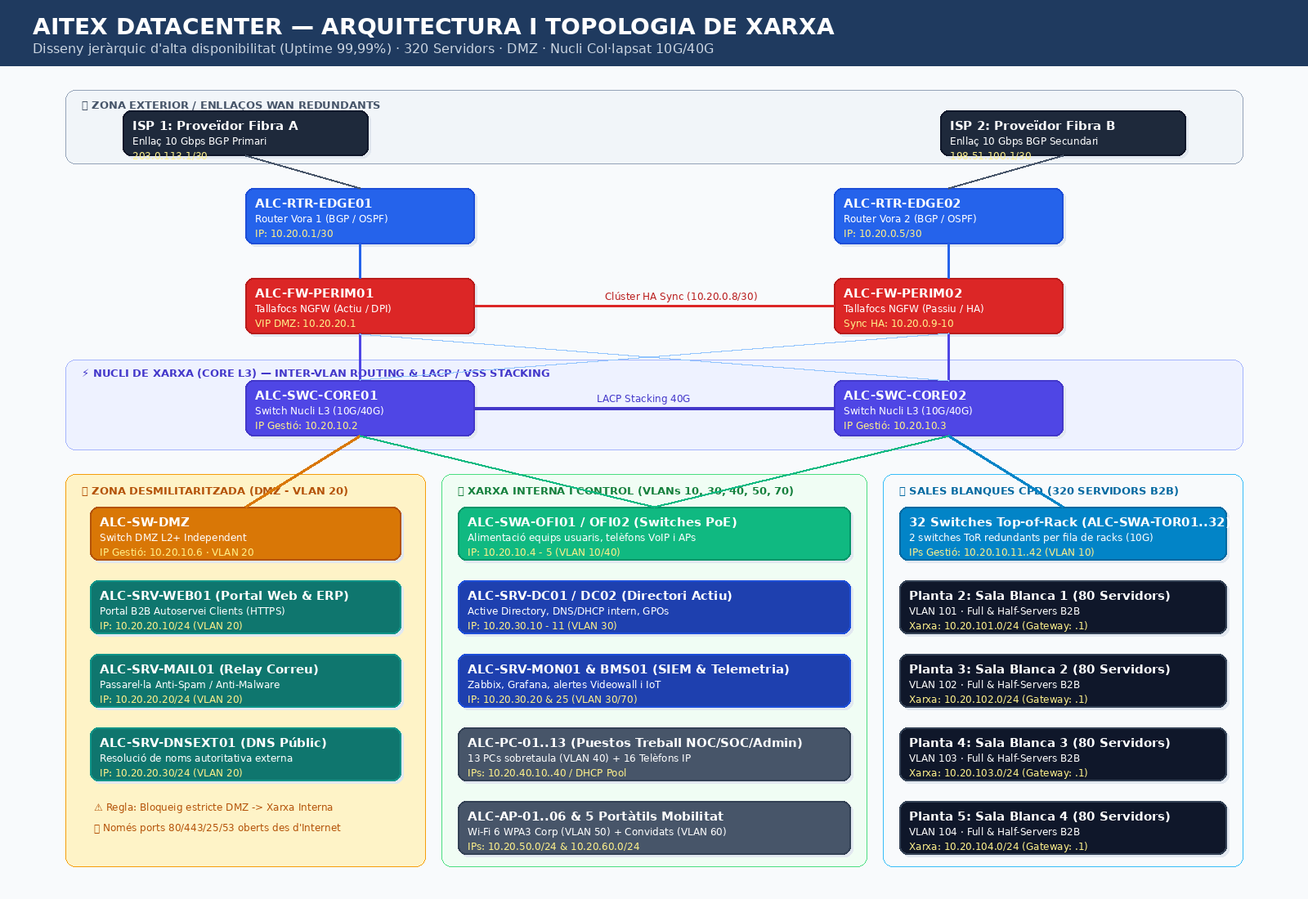
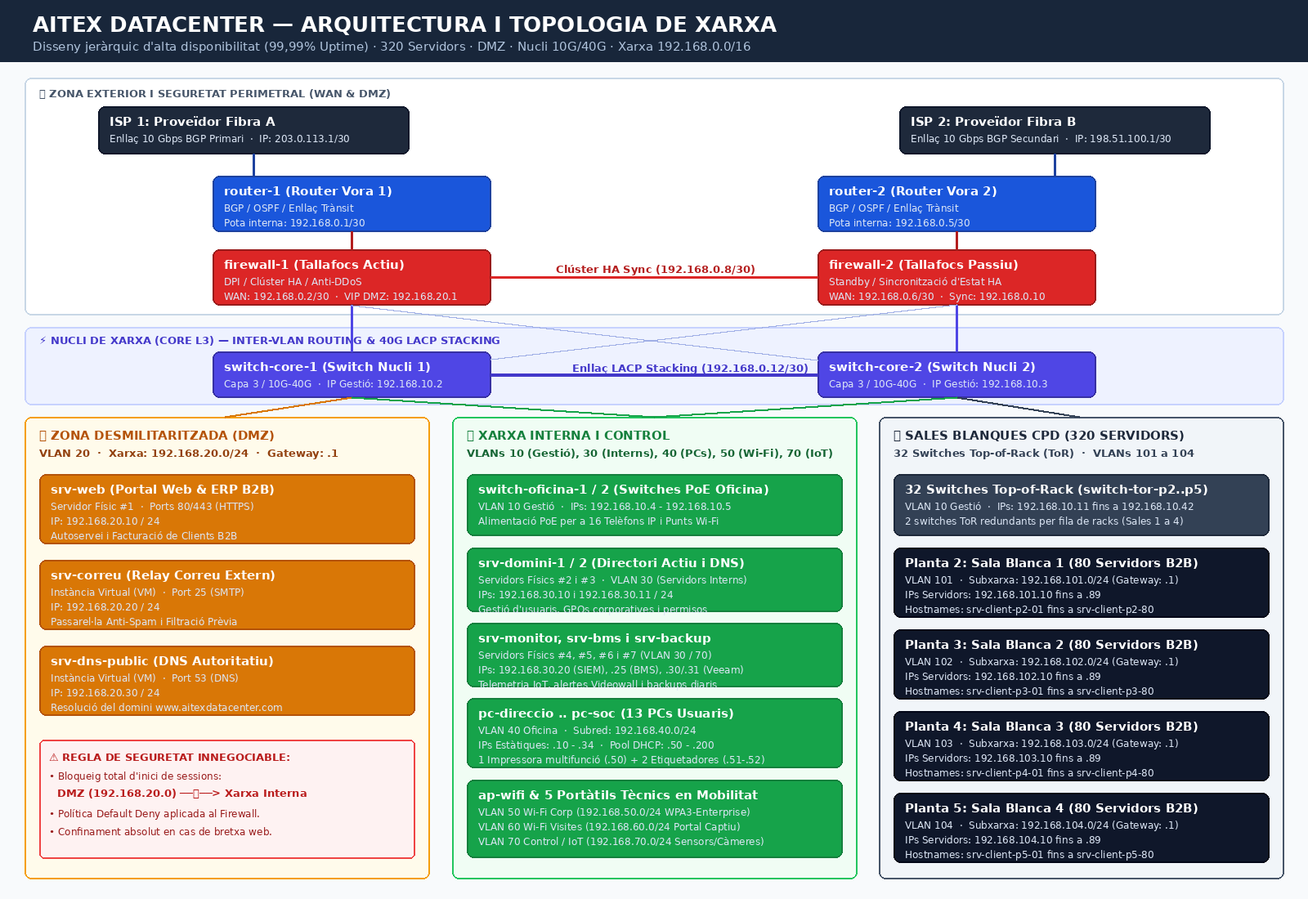
Apply 192.168.0.0/16 IP addressing scheme and natural human-friendly hostnames across docs and diagrams

diff --git a/docs/sprint-1/bloc-2/04-adrecament-ip.md b/docs/sprint-1/bloc-2/04-adrecament-ip.md
@@ -6,130 +6,126 @@
   <img alt="CE" src="https://img.shields.io/badge/Criteris_Avaluaci%C3%B3-RA2.e_·_RA2.i-2E7D6B?style=for-the-badge">
 </p>
 
-Aquest document defineix el pla exhaustiu d'adreçament IP privat, la segmentació lògica en xarxes virtuals (**VLANs**), el criteri de nomenclatura normalitzat (*hostname/FQDN*) dels equips i la justificació de seguretat entre la xarxa interna i la **DMZ** per a **Aitex Datacenter**.
+Aquest document defineix el pla exhaustiu d'adreçament IP privat sota la xarxa base **`192.168.0.0/16`**, la segmentació en xarxes virtuals (**VLANs**), la nomenclatura simplificada i directa dels equips (*Hostnames*) i la justificació de seguretat entre la xarxa interna i la **DMZ** per a **Aitex Datacenter**.
 
 ---
 
-## 📐 1. Esquema General de Subxarxes i VLANs
+## 📐 1. Esquema General de Subxarxes i VLANs (`192.168.0.0/16`)
 
-S'ha adoptat l'espai d'adreçament privat **RFC 1918** de classe A reservat **`10.20.0.0/16`**, el qual ofereix un espai de fins a 65.534 adreces dividit jeràrquicament en blocs `/24` (254 hosts per subxarxa) per a les diferents zones funcionals, més blocs `/30` per als enllaços d'interconnexió punt a punt.
+S'ha adoptat l'espai d'adreçament privat **RFC 1918** **`192.168.0.0/16`**, dividit jeràrquicament en blocs `/24` (fins a 254 equips per subxarxa) on **el tercer octet de la IP coincideix de manera directa amb l'identificador de la VLAN (`192.168.[VLAN].0/24`)**, facilitant al màxim la gestió i el diagnòstic:
 
-| VLAN ID | Nom de la Subxarxa | Xarxa (CIDR) | Màscara de Subxarxa | Passarel·la (Gateway) | Rang d'adreces útils | Tipus d'assignació | Funció / Zona |
+| VLAN ID | Nom de la Subxarxa | Xarxa (CIDR) | Màscara de Subxarxa | Passarel·la (Gateway) | Rang d'adreces útils | Tipus d'assignació | Funció / Àrea |
 |:---:|---|---|---|---|---|:---:|---|
-| **—** | *Trànsit R1 - FW1* | `10.20.0.0/30` | `255.255.255.252` | `10.20.0.1` | `10.20.0.1 - 10.20.0.2` | Estàtica | Enllaç punt a punt Router 1 i Firewall 1 |
-| **—** | *Trànsit R2 - FW2* | `10.20.0.4/30` | `255.255.255.252` | `10.20.0.5` | `10.20.0.5 - 10.20.0.6` | Estàtica | Enllaç punt a punt Router 2 i Firewall 2 |
-| **—** | *Sincronització FW HA* | `10.20.0.8/30` | `255.255.255.252` | `—` | `10.20.0.9 - 10.20.0.10` | Estàtica | Heartbeat i estat del clúster de tallafocs |
-| **—** | *Enllaç Inter-Core (LACP)*| `10.20.0.12/30` | `255.255.255.252` | `—` | `10.20.0.13 - 10.20.0.14` | Estàtica | Trànsit entre Switches Core 1 i 2 |
-| **10** | **VLAN_GESTIO_OOBM** | `10.20.10.0/24` | `255.255.255.0` | `10.20.10.1` | `10.20.10.1 - 10.20.10.254` | Estàtica | Xarxa fora de banda: IPMI, iLO, KVM sobre IP i gestió de switches |
-| **20** | **VLAN_DMZ_PUBLICA** | `10.20.20.0/24` | `255.255.255.0` | `10.20.20.1` | `10.20.20.1 - 10.20.20.254` | Estàtica | Serveis amb accés públic des d'Internet (Web/ERP, DNS, Mail) |
-| **30** | **VLAN_SRV_INTERNS** | `10.20.30.0/24` | `255.255.255.0` | `10.20.30.1` | `10.20.30.1 - 10.20.30.254` | Estàtica | Controladors de Domini (AD), Backups corporatius, SIEM/Syslog |
-| **40** | **VLAN_OFICINA_USUARIS**| `10.20.40.0/24` | `255.255.255.0` | `10.20.40.1` | `10.20.40.1 - 10.20.40.254` | DHCP (`.50 - .200`) | PCs sobretaula d'Administració, Direcció, Suport i SOC |
-| **50** | **VLAN_WIFI_CORP** | `10.20.50.0/24` | `255.255.255.0` | `10.20.50.1` | `10.20.50.1 - 10.20.50.254` | DHCP (`.20 - .250`) | Portàtils tècnics corporatius (WPA3-Enterprise / 802.1X) |
-| **60** | **VLAN_WIFI_VISITES** | `10.20.60.0/24` | `255.255.255.0` | `10.20.60.1` | `10.20.60.1 - 10.20.60.254` | DHCP (`.10 - .250`) | Accés a Internet exclusiu per a visites amb portal captiu |
-| **70** | **VLAN_IOT_BMS_CONTROL**| `10.20.70.0/24` | `255.255.255.0` | `10.20.70.1` | `10.20.70.1 - 10.20.70.254` | Estàtica / DHCP | Sensors de temperatura, humitat, SAIs, Videowall NOC i càmeres CCTV |
-| **101** | **VLAN_PROD_PLANTA2** | `10.20.101.0/24` | `255.255.255.0` | `10.20.101.1` | `10.20.101.1 - 10.20.101.254` | Estàtica | Sala Blanca 1: 80 servidors de producció clients B2B |
-| **102** | **VLAN_PROD_PLANTA3** | `10.20.102.0/24` | `255.255.255.0` | `10.20.102.1` | `10.20.102.1 - 10.20.102.254` | Estàtica | Sala Blanca 2: 80 servidors de producció clients B2B |
-| **103** | **VLAN_PROD_PLANTA4** | `10.20.103.0/24` | `255.255.255.0` | `10.20.103.1` | `10.20.103.1 - 10.20.103.254` | Estàtica | Sala Blanca 3: 80 servidors de producció clients B2B |
-| **104** | **VLAN_PROD_PLANTA5** | `10.20.104.0/24` | `255.255.255.0` | `10.20.104.1` | `10.20.104.1 - 10.20.104.254` | Estàtica | Sala Blanca 4: 80 servidors de producció clients B2B |
+| **—** | *Trànsit R1 - FW1* | `192.168.0.0/30` | `255.255.255.252` | `192.168.0.1` | `192.168.0.1 - 192.168.0.2` | Estàtica | Enllaç punt a punt Router 1 i Firewall 1 |
+| **—** | *Trànsit R2 - FW2* | `192.168.0.4/30` | `255.255.255.252` | `192.168.0.5` | `192.168.0.5 - 192.168.0.6` | Estàtica | Enllaç punt a punt Router 2 i Firewall 2 |
+| **—** | *Sincronització FW HA*| `192.168.0.8/30` | `255.255.255.252` | `—` | `192.168.0.9 - 192.168.0.10` | Estàtica | Heartbeat i estat del clúster de tallafocs |
+| **—** | *Enllaç Inter-Core (LACP)*| `192.168.0.12/30`| `255.255.255.252` | `—` | `192.168.0.13 - 192.168.0.14`| Estàtica | Trànsit troncal entre Switches Core 1 i 2 |
+| **10** | **VLAN_GESTIO** | `192.168.10.0/24` | `255.255.255.0` | `192.168.10.1` | `192.168.10.1 - 192.168.10.254` | Estàtica | Gestió tècnica OOBM: IPMI, iLO, KVM i switches |
+| **20** | **VLAN_DMZ** | `192.168.20.0/24` | `255.255.255.0` | `192.168.20.1` | `192.168.20.1 - 192.168.20.254` | Estàtica | Serveis amb accés públic des d'Internet (Web/ERP, DNS, Mail) |
+| **30** | **VLAN_SERVIDORS_INTERNS**| `192.168.30.0/24` | `255.255.255.0` | `192.168.30.1` | `192.168.30.1 - 192.168.30.254` | Estàtica | Controladors de Domini (AD), Backups corporatius, SIEM/Syslog |
+| **40** | **VLAN_OFICINA** | `192.168.40.0/24` | `255.255.255.0` | `192.168.40.1` | `192.168.40.1 - 192.168.40.254` | DHCP (`.50 - .200`) | PCs sobretaula d'Administració, Direcció, Suport i SOC |
+| **50** | **VLAN_WIFI_CORP** | `192.168.50.0/24` | `255.255.255.0` | `192.168.50.1` | `192.168.50.1 - 192.168.50.254` | DHCP (`.20 - .250`) | Portàtils tècnics corporatius (WPA3-Enterprise) |
+| **60** | **VLAN_WIFI_VISITES** | `192.168.60.0/24` | `255.255.255.0` | `192.168.60.1` | `192.168.60.1 - 192.168.60.254` | DHCP (`.10 - .250`) | Accés a Internet exclusiu per a visites amb portal captiu |
+| **70** | **VLAN_CONTROL_IOT** | `192.168.70.0/24` | `255.255.255.0` | `192.168.70.1` | `192.168.70.1 - 192.168.70.254` | Estàtica / DHCP | Sensors de temperatura, humitat, SAIs, Videowall NOC i càmeres |
+| **101** | **VLAN_PROD_PLANTA2** | `192.168.101.0/24`| `255.255.255.0` | `192.168.101.1`| `192.168.101.1 - 192.168.101.254`| Estàtica | Sala Blanca 1: 80 servidors de producció clients B2B |
+| **102** | **VLAN_PROD_PLANTA3** | `192.168.102.0/24`| `255.255.255.0` | `192.168.102.1`| `192.168.102.1 - 192.168.102.254`| Estàtica | Sala Blanca 2: 80 servidors de producció clients B2B |
+| **103** | **VLAN_PROD_PLANTA4** | `192.168.103.0/24`| `255.255.255.0` | `192.168.103.1`| `192.168.103.1 - 192.168.103.254`| Estàtica | Sala Blanca 3: 80 servidors de producció clients B2B |
+| **104** | **VLAN_PROD_PLANTA5** | `192.168.104.0/24`| `255.255.255.0` | `192.168.104.1`| `192.168.104.1 - 192.168.104.254`| Estàtica | Sala Blanca 4: 80 servidors de producció clients B2B |
 
 ---
 
-## 🏷 2. Estàndard de Nomenclatura d'Equips (*Hostname / FQDN*)
+## 🏷 2. Estàndard de Nomenclatura Directa i Simplificada
 
-Tots els equips de la xarxa segueixen un patró de nomenclatura jeràrquic i unívoc:
+S'aplica un criteri de nomenclatura natural, intuïtiu i clar per al projecte:
 
-$$\text{Codi Seu} - \text{Tipus Equip} - \text{Funció / Zona} - \text{Número Seqüencial}$$
+$$\text{[tipus-dispositiu]} - \text{[funció o lloc]} - \text{[número]}$$
 
-* **Codi de Seu:** `ALC` (Seu Central d'Alcoi).
-* **Tipus de Dispositiu:**
-  * `RTR`: Encaminador (Router).
-  * `FW`: Tallafocs de Nova Generació (Firewall).
-  * `SWC`: Switch de Nucli (Core Layer 3).
-  * `SWA`: Switch d'Accés / Top-of-Rack (ToR Layer 2+).
-  * `AP`: Punt d'Accés Wi-Fi (Access Point).
-  * `SRV`: Servidor físic o virtualitzat.
-  * `PC`: Estació de treball fixa de sobretaula.
-  * `LT`: Ordinador portàtil corporatiu (*Laptop*).
-  * `PRN`: Impressora en xarxa.
-  * `IOT`: Dispositiu IoT, SAI o control ambiental.
-* **Domini intern:** `intra.aitexdatacenter.com`
+* **Noms directes i autoexplicatius:**
+  * Routers: `router-1`, `router-2`
+  * Firewalls: `firewall-1`, `firewall-2` (Passarel·la Virtual DMZ: `firewall-vip-dmz`)
+  * Switches de Nucli: `switch-core-1`, `switch-core-2`
+  * Switches d'Oficina: `switch-oficina-1`, `switch-oficina-2`
+  * Switches ToR: `switch-tor-p2-01` .. `08`, `switch-tor-p3-01` .. `08`, etc.
+  * Servidors: `srv-web`, `srv-correu`, `srv-domini-1`, `srv-backup-1`, etc.
+  * PCs: `pc-direccio`, `pc-admin`, `pc-sistemes-1` .. `6`, `pc-soc-1` .. `4`
+  * Portàtils: `portatil-sistemes-1` .. `2`, `portatil-manteniment-1` .. `3`
+  * Servidors de Clients: `srv-client-p2-01` .. `80` (repartits per planta)
+* **Domini intern corporatiu:** `intra.aitexdatacenter.com`
 
 ---
 
 ## 💻 3. Taula d'Adreçament d'Equips i Dispositius de Xarxa
 
-A continuació es detalla l'assignació IP prevista per als principals components físics i lògics de la infraestructura:
-
 ### A. Electrònica de Xarxa, Seguretat i Enllaços de Trànsit
 
 | Nom de l'Equip (*Hostname*) | Xarxa / VLAN | Adreça IP | Màscara / Prefix | Passarel·la (*Gateway*) | Descripció i Funció |
 |---|---|:---:|:---:|:---:|---|
-| `ALC-RTR-EDGE01` | Trànsit ISP 1 | `203.0.113.2` | `255.255.255.252` (`/30`) | `203.0.113.1` | Router de Vora 1 (BGP Primari, Fibra ISP 1) |
-| `ALC-RTR-EDGE01` (LAN) | Trànsit R1-FW1 | `10.20.0.1` | `255.255.255.252` (`/30`) | `—` | Pota interna cap al Firewall 1 |
-| `ALC-RTR-EDGE02` | Trànsit ISP 2 | `198.51.100.2` | `255.255.255.252` (`/30`) | `198.51.100.1` | Router de Vora 2 (BGP Secundari, Fibra ISP 2) |
-| `ALC-RTR-EDGE02` (LAN) | Trànsit R2-FW2 | `10.20.0.5` | `255.255.255.252` (`/30`) | `—` | Pota interna cap al Firewall 2 |
-| `ALC-FW-PERIM01` (WAN) | Trànsit R1-FW1 | `10.20.0.2` | `255.255.255.252` (`/30`) | `10.20.0.1` | Firewall Primari Actiu (Interfície WAN) |
-| `ALC-FW-PERIM02` (WAN) | Trànsit R2-FW2 | `10.20.0.6` | `255.255.255.252` (`/30`) | `10.20.0.5` | Firewall Secundari Passiu (Interfície WAN) |
-| `ALC-FW-PERIM01` (HA Sync)| Sincronització | `10.20.0.9` | `255.255.255.252` (`/30`) | `—` | Port de sincronització d'estat Clúster HA |
-| `ALC-FW-PERIM02` (HA Sync)| Sincronització | `10.20.0.10` | `255.255.255.252` (`/30`) | `—` | Port de sincronització d'estat Clúster HA |
-| `ALC-FW-VIP-DMZ` | VLAN 20 (DMZ) | `10.20.20.1` | `255.255.255.0` (`/24`) | `—` | IP Virtual Clúster Firewall per a la DMZ (Gateway) |
-| `ALC-SWC-CORE01` | VLAN 10 (Gestió) | `10.20.10.2` | `255.255.255.0` (`/24`) | `10.20.10.1` | Switch Core 1 L3 (Gestió i Inter-VLAN Routing) |
-| `ALC-SWC-CORE02` | VLAN 10 (Gestió) | `10.20.10.3` | `255.255.255.0` (`/24`) | `10.20.10.1` | Switch Core 2 L3 (Stacking/VSS amb Core 1) |
-| `ALC-SWA-OFI01` | VLAN 10 (Gestió) | `10.20.10.4` | `255.255.255.0` (`/24`) | `10.20.10.1` | Switch PoE Planta 1 (Oficina i Punts d'Accés) |
-| `ALC-SWA-OFI02` | VLAN 10 (Gestió) | `10.20.10.5` | `255.255.255.0` (`/24`) | `10.20.10.1` | Switch PoE Planta 1 Redundant (Telèfons IP) |
-| `ALC-SWA-TOR01` a `08` | VLAN 10 (Gestió) | `10.20.10.11` - `.18` | `255.255.255.0` (`/24`) | `10.20.10.1` | 8 Switches ToR Planta 2 (Sala Blanca 1) |
-| `ALC-SWA-TOR09` a `16` | VLAN 10 (Gestió) | `10.20.10.19` - `.26` | `255.255.255.0` (`/24`) | `10.20.10.1` | 8 Switches ToR Planta 3 (Sala Blanca 2) |
-| `ALC-SWA-TOR17` a `24` | VLAN 10 (Gestió) | `10.20.10.27` - `.34` | `255.255.255.0` (`/24`) | `10.20.10.1` | 8 Switches ToR Planta 4 (Sala Blanca 3) |
-| `ALC-SWA-TOR25` a `32` | VLAN 10 (Gestió) | `10.20.10.35` - `.42` | `255.255.255.0` (`/24`) | `10.20.10.1` | 8 Switches ToR Planta 5 (Sala Blanca 4) |
-| `ALC-AP-OFI01` - `02` | VLAN 10 (Gestió) | `10.20.10.51` - `.52` | `255.255.255.0` (`/24`) | `10.20.10.1` | Punts d'Accés Wi-Fi Planta 1 (Oficines) |
-| `ALC-AP-SB01` a `04` | VLAN 10 (Gestió) | `10.20.10.53` - `.56` | `255.255.255.0` (`/24`) | `10.20.10.1` | Punts d'Accés Wi-Fi Sales Blanques (Plantes 2 a 5) |
+| `router-1` (WAN) | Trànsit ISP 1 | `203.0.113.2` | `255.255.255.252` (`/30`) | `203.0.113.1` | Router de Vora 1 (BGP Primari, Fibra ISP 1) |
+| `router-1` (LAN) | Trànsit R1-FW1 | `192.168.0.1` | `255.255.255.252` (`/30`) | `—` | Pota interna cap al Firewall 1 |
+| `router-2` (WAN) | Trànsit ISP 2 | `198.51.100.2` | `255.255.255.252` (`/30`) | `198.51.100.1` | Router de Vora 2 (BGP Secundari, Fibra ISP 2) |
+| `router-2` (LAN) | Trànsit R2-FW2 | `192.168.0.5` | `255.255.255.252` (`/30`) | `—` | Pota interna cap al Firewall 2 |
+| `firewall-1` (WAN) | Trànsit R1-FW1 | `192.168.0.2` | `255.255.255.252` (`/30`) | `192.168.0.1` | Firewall Primari Actiu (Interfície WAN) |
+| `firewall-2` (WAN) | Trànsit R2-FW2 | `192.168.0.6` | `255.255.255.252` (`/30`) | `192.168.0.5` | Firewall Secundari Passiu (Interfície WAN) |
+| `firewall-1` (HA Sync)| Sincronització | `192.168.0.9` | `255.255.255.252` (`/30`) | `—` | Port de sincronització Clúster HA |
+| `firewall-2` (HA Sync)| Sincronització | `192.168.0.10` | `255.255.255.252` (`/30`) | `—` | Port de sincronització Clúster HA |
+| `firewall-vip-dmz` | VLAN 20 (DMZ) | `192.168.20.1` | `255.255.255.0` (`/24`) | `—` | IP Virtual Clúster Firewall per a la DMZ (Gateway) |
+| `switch-core-1` | VLAN 10 (Gestió) | `192.168.10.2` | `255.255.255.0` (`/24`) | `192.168.10.1` | Switch Core 1 L3 (Gestió i Inter-VLAN Routing) |
+| `switch-core-2` | VLAN 10 (Gestió) | `192.168.10.3` | `255.255.255.0` (`/24`) | `192.168.10.1` | Switch Core 2 L3 (Stacking/VSS amb Core 1) |
+| `switch-oficina-1` | VLAN 10 (Gestió) | `192.168.10.4` | `255.255.255.0` (`/24`) | `192.168.10.1` | Switch PoE Planta 1 (Oficina i Punts d'Accés) |
+| `switch-oficina-2` | VLAN 10 (Gestió) | `192.168.10.5` | `255.255.255.0` (`/24`) | `192.168.10.1` | Switch PoE Planta 1 Redundant (Telèfons IP) |
+| `switch-tor-p2-01` a `08` | VLAN 10 (Gestió) | `192.168.10.11` - `.18` | `255.255.255.0` (`/24`) | `192.168.10.1` | 8 Switches ToR Planta 2 (Sala Blanca 1) |
+| `switch-tor-p3-01` a `08` | VLAN 10 (Gestió) | `192.168.10.19` - `.26` | `255.255.255.0` (`/24`) | `192.168.10.1` | 8 Switches ToR Planta 3 (Sala Blanca 2) |
+| `switch-tor-p4-01` a `08` | VLAN 10 (Gestió) | `192.168.10.27` - `.34` | `255.255.255.0` (`/24`) | `192.168.10.1` | 8 Switches ToR Planta 4 (Sala Blanca 3) |
+| `switch-tor-p5-01` a `08` | VLAN 10 (Gestió) | `192.168.10.35` - `.42` | `255.255.255.0` (`/24`) | `192.168.10.1` | 8 Switches ToR Planta 5 (Sala Blanca 4) |
+| `ap-oficina-1` - `2` | VLAN 10 (Gestió) | `192.168.10.51` - `.52` | `255.255.255.0` (`/24`) | `192.168.10.1` | Punts d'Accés Wi-Fi Planta 1 (Oficines) |
+| `ap-planta-2` a `5` | VLAN 10 (Gestió) | `192.168.10.53` - `.56` | `255.255.255.0` (`/24`) | `192.168.10.1` | Punts d'Accés Wi-Fi Sales Blanques (Plantes 2 a 5) |
 
 ---
 
-### B. Serveis en DMZ i Servidors Interns (7 Servidors Físics 2U + VM)
+### B. Serveis en DMZ i Servidors Interns (7 Servidors Físics 2U + Instàncies Virtuals)
 
 > [!NOTE]
-> Els **7 servidors físics de gestió interna** (Rack 2U) allotgen els 7 rols principals de control, monitoratge, còpies, fitxers i portal web/ERP, mentre que els serveis lleugers de passarel·la a la DMZ (`ALC-SRV-MAIL01` i `ALC-SRV-DNSEXT01`) s'executen com a instàncies virtualitzades aïllades (LXC/KVM) dins del mateix clúster intern amb interfície exclusiva a la `VLAN 20`.
+> Els **7 servidors físics de gestió interna** (Rack 2U) allotgen els serveis fonamentals d'administració, mentre que els serveis de passarel·la pública a la DMZ (`srv-correu` i `srv-dns-public`) s'executen com a instàncies virtualitzades aïllades amb interfície exclusiva a la `VLAN 20`.
 
 | Nom de l'Equip (*Hostname*) | Xarxa / VLAN | Adreça IP | Màscara / Prefix | Passarel·la (*Gateway*) | Descripció i Serveis |
 |---|---|:---:|:---:|:---:|---|
-| `ALC-SRV-WEB01` | VLAN 20 (DMZ) | `10.20.20.10` | `255.255.255.0` (`/24`) | `10.20.20.1` | **[Servidor Físic #1]** Portal Web corporatiu, Facturació i ERP d'Autoservei B2B (HTTPS) |
-| `ALC-SRV-MAIL01` *(VM)* | VLAN 20 (DMZ) | `10.20.20.20` | `255.255.255.0` (`/24`) | `10.20.20.1` | Relay de Correu / Passarel·la Anti-Spam i Anti-Malware (SMTP) |
-| `ALC-SRV-DNSEXT01` *(VM)*| VLAN 20 (DMZ) | `10.20.20.30` | `255.255.255.0` (`/24`) | `10.20.20.1` | Servidor DNS Autoritatiu Públic per al domini comercial |
-| `ALC-SRV-DC01` | VLAN 30 (Interns)| `10.20.30.10` | `255.255.255.0` (`/24`) | `10.20.30.1` | **[Servidor Físic #2]** Controlador de Domini Primari (Active Directory, DNS/DHCP intern) |
-| `ALC-SRV-DC02` | VLAN 30 (Interns)| `10.20.30.11` | `255.255.255.0` (`/24`) | `10.20.30.1` | **[Servidor Físic #3]** Controlador de Domini Secundari (Rèplica i Alta Disponibilitat) |
-| `ALC-SRV-MON01` | VLAN 30 (Interns)| `10.20.30.20` | `255.255.255.0` (`/24`) | `10.20.30.1` | **[Servidor Físic #4]** Servidor SIEM i Monitoratge Zabbix / Grafana (Syslog/SNMP) |
-| `ALC-SRV-BMS01` | VLAN 30 (Interns)| `10.20.30.25` | `255.255.255.0` (`/24`) | `10.20.30.1` | **[Servidor Físic #5]** Plataforma BMS (Building Management) i Seguretat Ambiental |
-| `ALC-SRV-BKP01` | VLAN 30 (Interns)| `10.20.30.30` | `255.255.255.0` (`/24`) | `10.20.30.1` | **[Servidor Físic #6]** Servidor de Còpies de Seguretat Primari (Veeam / Proxmox Backup) |
-| `ALC-SRV-BKP02` | VLAN 30 (Interns)| `10.20.30.31` | `255.255.255.0` (`/24`) | `10.20.30.1` | **[Servidor Físic #7]** Cabina d'Emmagatzematge NAS/SAN, Fitxers Interns i rèplica de snapshots |
-| `ALC-SRV-FILE01` *(VIP)* | VLAN 30 (Interns)| `10.20.30.40` | `255.255.255.0` (`/24`) | `10.20.30.1` | IP de Servei del Recurs Compartit (SMB/NFS sobre `ALC-SRV-BKP02`) per a contractes i ISOs |
+| `srv-web` | VLAN 20 (DMZ) | `192.168.20.10` | `255.255.255.0` (`/24`) | `192.168.20.1` | **[Servidor Físic #1]** Portal Web corporatiu, Facturació i ERP B2B (HTTPS) |
+| `srv-correu` *(VM)* | VLAN 20 (DMZ) | `192.168.20.20` | `255.255.255.0` (`/24`) | `192.168.20.1` | Relay de Correu / Passarel·la Anti-Spam i Anti-Malware (SMTP) |
+| `srv-dns-public` *(VM)* | VLAN 20 (DMZ) | `192.168.20.30` | `255.255.255.0` (`/24`) | `192.168.20.1` | Servidor DNS Autoritatiu Públic per al domini comercial |
+| `srv-domini-1` | VLAN 30 (Interns)| `192.168.30.10` | `255.255.255.0` (`/24`) | `192.168.30.1` | **[Servidor Físic #2]** Controlador de Domini Primari (Active Directory, DNS/DHCP intern) |
+| `srv-domini-2` | VLAN 30 (Interns)| `192.168.30.11` | `255.255.255.0` (`/24`) | `192.168.30.1` | **[Servidor Físic #3]** Controlador de Domini Secundari (Rèplica i Alta Disponibilitat) |
+| `srv-monitor` | VLAN 30 (Interns)| `192.168.30.20` | `255.255.255.0` (`/24`) | `192.168.30.1` | **[Servidor Físic #4]** Servidor SIEM i Monitoratge Zabbix / Grafana (Syslog/SNMP) |
+| `srv-bms` | VLAN 30 (Interns)| `192.168.30.25` | `255.255.255.0` (`/24`) | `192.168.30.1` | **[Servidor Físic #5]** Plataforma BMS (Building Management) i Telemetria de Sensors |
+| `srv-backup-1` | VLAN 30 (Interns)| `192.168.30.30` | `255.255.255.0` (`/24`) | `192.168.30.1` | **[Servidor Físic #6]** Servidor de Còpies de Seguretat Primari (Veeam / Proxmox Backup) |
+| `srv-backup-2` | VLAN 30 (Interns)| `192.168.30.31` | `255.255.255.0` (`/24`) | `192.168.30.1` | **[Servidor Físic #7]** Cabina d'Emmagatzematge NAS/SAN, Fitxers i rèplica de snapshots |
+| `srv-fitxers` *(VIP)* | VLAN 30 (Interns)| `192.168.30.40` | `255.255.255.0` (`/24`) | `192.168.30.1` | IP de Servei de Recurs Compartit (SMB/NFS sobre `srv-backup-2`) per a contractes i ISOs |
 
 ---
 
-### C. Equips Clients de la Plantilla, Perifèrics i Rangs de Producció
+### C. Equips Clients de la Plantilla, Perifèrics i Servidors de Producció
 
 | Nom de l'Equip (*Hostname*) | Xarxa / VLAN | Adreça IP | Màscara / Prefix | Passarel·la (*Gateway*) | Descripció del lloc de treball |
 |---|---|:---:|:---:|:---:|---|
-| `ALC-PC-DIR01` | VLAN 40 (Oficina) | `10.20.40.10` | `255.255.255.0` (`/24`) | `10.20.40.1` | Lloc de Direcció General (CEO) |
-| `ALC-PC-ADM01` | VLAN 40 (Oficina) | `10.20.40.11` | `255.255.255.0` (`/24`) | `10.20.40.1` | Responsable d'Administració, RRHH i Finances |
-| `ALC-PC-COM01` | VLAN 40 (Oficina) | `10.20.40.12` | `255.255.255.0` (`/24`) | `10.20.40.1` | Comercial B2B i Màrqueting |
-| `ALC-PC-SYS01` a `06` | VLAN 40 (Oficina) | `10.20.40.21` - `.26` | `255.255.255.0` (`/24`) | `10.20.40.1` | 6 Estacions de Sistemes i Suport Tècnic N1/N2 (Doble monitor) |
-| `ALC-PC-SOC01` a `04` | VLAN 40 (Oficina) | `10.20.40.31` - `.34` | `255.255.255.0` (`/24`) | `10.20.40.1` | 4 Estacions de Treball Xarxes i Ciberseguretat NOC/SOC |
-| `ALC-LT-SYS01` - `02` | VLAN 50 (Wi-Fi Corp)| `10.20.50.21` - `.22` (DHCP) | `255.255.255.0` (`/24`) | `10.20.50.1` | 2 Portàtils Tècnics de Sistemes (Mobilitat i diagnòstic) |
-| `ALC-LT-INF01` a `03` | VLAN 50 (Wi-Fi Corp)| `10.20.50.31` - `.33` (DHCP) | `255.255.255.0` (`/24`) | `10.20.50.1` | 3 Portàtils Robustos (*Rugged*) de Manteniment Físic |
-| `ALC-PRN-LASER01` | VLAN 40 (Oficina) | `10.20.40.50` | `255.255.255.0` (`/24`) | `10.20.40.1` | Impressora multifunció làser departamental |
-| `ALC-PRN-LBL01` - `02`| VLAN 40 (Oficina) | `10.20.40.51` - `.52` | `255.255.255.0` (`/24`) | `10.20.40.1` | 2 Impressores tèrmiques d'etiquetatge per a racks/cables |
-| `ALC-IOT-VW01` | VLAN 70 (IoT/BMS) | `10.20.70.10` | `255.255.255.0` (`/24`) | `10.20.70.1` | Controlador gràfic del Videowall (4 pantalles NOC 55") |
-| `ALC-PROD-P2-01` a `80`| VLAN 101 (Planta 2) | `10.20.101.10` - `.89` | `255.255.255.0` (`/24`) | `10.20.101.1` | 80 Servidors Físics Sala Blanca 1 (*Half/Full-Server*) |
-| `ALC-PROD-P3-01` a `80`| VLAN 102 (Planta 3) | `10.20.102.10` - `.89` | `255.255.255.0` (`/24`) | `10.20.102.1` | 80 Servidors Físics Sala Blanca 2 (*Half/Full-Server*) |
-| `ALC-PROD-P4-01` a `80`| VLAN 103 (Planta 4) | `10.20.103.10` - `.89` | `255.255.255.0` (`/24`) | `10.20.103.1` | 80 Servidors Físics Sala Blanca 3 (*Half/Full-Server*) |
-| `ALC-PROD-P5-01` a `80`| VLAN 104 (Planta 5) | `10.20.104.10` - `.89` | `255.255.255.0` (`/24`) | `10.20.104.1` | 80 Servidors Físics Sala Blanca 4 (*Half/Full-Server*) |
+| `pc-direccio` | VLAN 40 (Oficina) | `192.168.40.10` | `255.255.255.0` (`/24`) | `192.168.40.1` | Lloc de Direcció General (CEO) |
+| `pc-admin` | VLAN 40 (Oficina) | `192.168.40.11` | `255.255.255.0` (`/24`) | `192.168.40.1` | Responsable d'Administració, RRHH i Finances |
+| `pc-comercial` | VLAN 40 (Oficina) | `192.168.40.12` | `255.255.255.0` (`/24`) | `192.168.40.1` | Comercial B2B i Màrqueting |
+| `pc-sistemes-1` a `6` | VLAN 40 (Oficina) | `192.168.40.21` - `.26` | `255.255.255.0` (`/24`) | `192.168.40.1` | 6 Estacions de Sistemes i Suport Tècnic N1/N2 (Doble monitor) |
+| `pc-soc-1` a `4` | VLAN 40 (Oficina) | `192.168.40.31` - `.34` | `255.255.255.0` (`/24`) | `192.168.40.1` | 4 Estacions de Treball Xarxes i Ciberseguretat NOC/SOC |
+| `portatil-sistemes-1` - `2` | VLAN 50 (Wi-Fi Corp)| `192.168.50.21` - `.22` (DHCP) | `255.255.255.0` (`/24`) | `192.168.50.1` | 2 Portàtils Tècnics de Sistemes (Mobilitat i diagnòstic) |
+| `portatil-manteniment-1` a `3`| VLAN 50 (Wi-Fi Corp)| `192.168.50.31` - `.33` (DHCP) | `255.255.255.0` (`/24`) | `192.168.50.1` | 3 Portàtils Robustos (*Rugged*) de Manteniment Físic |
+| `impressora-oficina` | VLAN 40 (Oficina) | `192.168.40.50` | `255.255.255.0` (`/24`) | `192.168.40.1` | Impressora multifunció làser departamental |
+| `etiquetadora-1` - `2` | VLAN 40 (Oficina) | `192.168.40.51` - `.52` | `255.255.255.0` (`/24`) | `192.168.40.1` | 2 Impressores tèrmiques d'etiquetatge per a racks/cables |
+| `controlador-videowall` | VLAN 70 (IoT/BMS) | `192.168.70.10` | `255.255.255.0` (`/24`) | `192.168.70.1` | Controlador gràfic del Videowall (4 pantalles NOC 55") |
+| `srv-client-p2-01` a `80` | VLAN 101 (Planta 2) | `192.168.101.10` - `.89` | `255.255.255.0` (`/24`) | `192.168.101.1` | 80 Servidors Físics Sala Blanca 1 (*Half/Full-Server*) |
+| `srv-client-p3-01` a `80` | VLAN 102 (Planta 3) | `192.168.102.10` - `.89` | `255.255.255.0` (`/24`) | `192.168.102.1` | 80 Servidors Físics Sala Blanca 2 (*Half/Full-Server*) |
+| `srv-client-p4-01` a `80` | VLAN 103 (Planta 4) | `192.168.103.10` - `.89` | `255.255.255.0` (`/24`) | `192.168.103.1` | 80 Servidors Físics Sala Blanca 3 (*Half/Full-Server*) |
+| `srv-client-p5-01` a `80` | VLAN 104 (Planta 5) | `192.168.104.10` - `.89` | `255.255.255.0` (`/24`) | `192.168.104.1` | 80 Servidors Físics Sala Blanca 4 (*Half/Full-Server*) |
 
 ---
 
 ## 🛡 4. Justificació de la Separació entre Xarxa Interna i DMZ
 
-La creació d'una **Zona Desmilitaritzada (DMZ - VLAN 20)** aïllada de la **Xarxa Interna corporativa (VLAN 30 i 40)** i de la **Xarxa de Gestió (VLAN 10)** és un requisit innegociable de seguretat fonamentat en els següents principis:
+La creació d'una **Zona Desmilitaritzada (DMZ - VLAN 20 - `192.168.20.0/24`)** aïllada de la **Xarxa Interna (VLAN 30 i 40)** i de la **Xarxa de Gestió (VLAN 10)** és un requisit fonamental de seguretat:
 
 ```
                [ INTERNET (Públic) ]
@@ -140,47 +136,48 @@ La creació d'una **Zona Desmilitaritzada (DMZ - VLAN 20)** aïllada de la **Xar
              │ (Filtratge Estricte)  │
              ▼                       ▼
     [ ZONA DMZ (VLAN 20) ]    [ XARXA INTERNA (VLAN 30/40) ]
-    • Portal Web / ERP        • Directori Actiu (AD/LDAP)
-    • Relay de Correu         • Servidor de Còpies (Backups)
+    • Portal Web (srv-web)    • Directori Actiu (srv-domini)
+    • Relay de Correu         • Servidor de Còpies (srv-backup)
     • DNS Públic              • PCs de Treball dels Empleats
+    (192.168.20.0/24)         (192.168.30.0 / 40.0)
              │                       ▲
              └───[ BLOQUEJAT ]───────┘ (Default Deny)
 ```
 
-1. **Principi de Mínima Confiança (*Zero Trust*) i Aïllament de Breixes:**
-   * Els serveis web (`ALC-SRV-WEB01`) han d'atendre peticions públiques des de qualsevol IP del món pels ports TCP 80 i 443. Si un atacant troba una vulnerabilitat a l'aplicació web (ex. injecció SQL o execució remota de codi), queda confinat a la subxarxa `10.20.20.0/24`.
-   * **Regla Tallafocs Fonamental:** El Firewall perimetral té configurada una política de **Denegació per Defecte (*Default Deny*)**: cap equip situat a la DMZ pot iniciar sessions ni obrir connexions cap a la xarxa interna (`10.20.30.0/24` o `10.20.40.0/24`).
+1. **Principi de Mínima Confiança (*Zero Trust*) i Aïllament:**
+   * El servei web (`srv-web`) rep trànsit directe des d'Internet (ports TCP 80/443). Si rep un atac extern, aquest queda confinat exclusivament a la subxarxa `192.168.20.0/24`.
+   * **Política de Denegació per Defecte (*Default Deny*):** Cap equip de la DMZ té autorització per obrir connexions cap a la xarxa interna de la seu (`192.168.30.0/24` o `192.168.40.0/24`).
 
-2. **Protecció del Nucli Operatiu i Dades Confidencials:**
-   * La xarxa interna allotja el Directori Actiu, les bases de dades de facturació, les nòmines i les còpies de seguretat (Veeam). Si la DMZ i la xarxa interna compartiren el mateix domini de difusió, qualsevol malware o atac de moviment lateral (*Pass-the-Hash*, *ransomware*) infectaria la infraestructura central.
+2. **Protecció de les Dades Crítiques:**
+   * La xarxa interna custodia el Directori Actiu, les nòmines, la facturació i les còpies de seguretat (Veeam). La separació evita moviments laterals de malware o atacs de *ransomware*.
 
-3. **Compliment Normatiu Internacional (ISO/IEC 27001 i RGPD):**
-   * L'estàndard ISO 27001 (control A.13.1 sobre gestió de la seguretat en les xarxes) exigeix separar els serveis d'informació, els usuaris i els sistemes de comunicacions en xarxes protegides mitjançant passarel·les de seguretat dedicades.
+3. **Compliment de la Norma ISO/IEC 27001 i ENS:**
+   * Separa estrictament els usuaris corporatius, la gestió de xarxa i els serveis exposats a Internet mitjançant tallafocs de nova generació.
 
 ---
 
-## 🔍 5. Verificació d'Absència de Solapaments i Adreces Duplicades
+## 🔍 5. Verificació d'Absència de Solapaments i Rangs Lliures
 
-Per garantir matemàticament que el pla d'adreçament no conté **cap solapament d'adreces (*overlapping*)** ni col·lisions d'IPs, s'ha realitzat l'anàlisi de rangs contigus:
+Totes les subxarxes compten amb màscares `/24` o `/30` estrictament contigües i sense solapaments:
 
 | Subxarxa / VLAN | Xarxa Base | Primera IP Útil | Última IP Útil | Adreça de Difusió (*Broadcast*) | Marge Lliure / Reserva |
 |---|---|---|---|---|---|
-| *Trànsit R1-FW1* | `10.20.0.0/30` | `10.20.0.1` | `10.20.0.2` | `10.20.0.3` | Totalment assignada (Enllaç punt a punt) |
-| *Trànsit R2-FW2* | `10.20.0.4/30` | `10.20.0.5` | `10.20.0.6` | `10.20.0.7` | Totalment assignada (Enllaç punt a punt) |
-| *Sincronització HA* | `10.20.0.8/30` | `10.20.0.9` | `10.20.0.10` | `10.20.0.11` | Totalment assignada (Enllaç clúster) |
-| *Inter-Core Link* | `10.20.0.12/30` | `10.20.0.13` | `10.20.0.14` | `10.20.0.15` | Totalment assignada (Enllaç switches) |
-| *Reserva Trànsit* | `10.20.0.16/28` | `10.20.0.17` | `10.20.0.30` | `10.20.0.31` | 14 IPs disponibles per a futurs enllaços |
-| **VLAN 10 (Gestió)** | `10.20.10.0/24` | `10.20.10.1` | `10.20.10.254` | `10.20.10.255` | 195 IPs lliures per a nous switches ToR i KVMs |
-| **VLAN 20 (DMZ)** | `10.20.20.0/24` | `10.20.20.1` | `10.20.20.254` | `10.20.20.255` | 248 IPs lliures per a balancejadors o nous portals |
-| **VLAN 30 (Interns)** | `10.20.30.0/24` | `10.20.30.1` | `10.20.30.254` | `10.20.30.255` | 244 IPs lliures per a nous nodes de clúster intern |
-| **VLAN 40 (Oficina)** | `10.20.40.0/24` | `10.20.40.1` | `10.20.40.254` | `10.20.40.255` | 100 IPs lliures al pool DHCP per a creixement |
-| **VLAN 50 (Wi-Fi Corp)** | `10.20.50.0/24` | `10.20.50.1` | `10.20.50.254` | `10.20.50.255` | 220 IPs lliures al pool dinàmic |
-| **VLAN 60 (Wi-Fi Visites)**| `10.20.60.0/24` | `10.20.60.1` | `10.20.60.254` | `10.20.60.255` | 240 IPs lliures al pool dinàmic temporal |
-| **VLAN 70 (IoT/BMS)** | `10.20.70.0/24` | `10.20.70.1` | `10.20.70.254` | `10.20.70.255` | 200 IPs lliures per a noves sondes o càmeres |
-| **VLAN 101 (Planta 2)** | `10.20.101.0/24`| `10.20.101.1`| `10.20.101.254`| `10.20.101.255`| 170 IPs lliures a la Sala Blanca 1 |
-| **VLAN 102 (Planta 3)** | `10.20.102.0/24`| `10.20.102.1`| `10.20.102.254`| `10.20.102.255`| 170 IPs lliures a la Sala Blanca 2 |
-| **VLAN 103 (Planta 4)** | `10.20.103.0/24`| `10.20.103.1`| `10.20.103.254`| `10.20.103.255`| 170 IPs lliures a la Sala Blanca 3 |
-| **VLAN 104 (Planta 5)** | `10.20.104.0/24`| `10.20.104.1`| `10.20.104.254`| `10.20.104.255`| 170 IPs lliures a la Sala Blanca 4 |
+| *Trànsit R1-FW1* | `192.168.0.0/30` | `192.168.0.1` | `192.168.0.2` | `192.168.0.3` | Totalment assignada (Enllaç punt a punt) |
+| *Trànsit R2-FW2* | `192.168.0.4/30` | `192.168.0.5` | `192.168.0.6` | `192.168.0.7` | Totalment assignada (Enllaç punt a punt) |
+| *Sincronització HA* | `192.168.0.8/30` | `192.168.0.9` | `192.168.0.10` | `192.168.0.11` | Totalment assignada (Enllaç clúster) |
+| *Inter-Core Link* | `192.168.0.12/30` | `192.168.0.13` | `192.168.0.14` | `192.168.0.15` | Totalment assignada (Enllaç switches) |
+| *Reserva Trànsit* | `192.168.0.16/28` | `192.168.0.17` | `192.168.0.30` | `192.168.0.31` | 14 IPs disponibles per a nous enllaços |
+| **VLAN 10 (Gestió)** | `192.168.10.0/24` | `192.168.10.1` | `192.168.10.254` | `192.168.10.255` | 195 IPs lliures per a nous switches ToR i KVMs |
+| **VLAN 20 (DMZ)** | `192.168.20.0/24` | `192.168.20.1` | `192.168.20.254` | `192.168.20.255` | 248 IPs lliures per a nous portals o proxies |
+| **VLAN 30 (Interns)** | `192.168.30.0/24` | `192.168.30.1` | `192.168.30.254` | `192.168.30.255` | 244 IPs lliures per a nous nodes de clúster intern |
+| **VLAN 40 (Oficina)** | `192.168.40.0/24` | `192.168.40.1` | `192.168.40.254` | `192.168.40.255` | 100 IPs lliures al pool DHCP per a creixement |
+| **VLAN 50 (Wi-Fi Corp)** | `192.168.50.0/24` | `192.168.50.1` | `192.168.50.254` | `192.168.50.255` | 220 IPs lliures al pool dinàmic |
+| **VLAN 60 (Wi-Fi Visites)**| `192.168.60.0/24` | `192.168.60.1` | `192.168.60.254` | `192.168.60.255` | 240 IPs lliures al pool dinàmic temporal |
+| **VLAN 70 (Control IoT)**| `192.168.70.0/24` | `192.168.70.1` | `192.168.70.254` | `192.168.70.255` | 200 IPs lliures per a noves sondes o càmeres |
+| **VLAN 101 (Planta 2)** | `192.168.101.0/24`| `192.168.101.1`| `192.168.101.254`| `192.168.101.255`| 170 IPs lliures a la Sala Blanca 1 |
+| **VLAN 102 (Planta 3)** | `192.168.102.0/24`| `192.168.102.1`| `192.168.102.254`| `192.168.102.255`| 170 IPs lliures a la Sala Blanca 2 |
+| **VLAN 103 (Planta 4)** | `192.168.103.0/24`| `192.168.103.1`| `192.168.103.254`| `192.168.103.255`| 170 IPs lliures a la Sala Blanca 3 |
+| **VLAN 104 (Planta 5)** | `192.168.104.0/24`| `192.168.104.1`| `192.168.104.254`| `192.168.104.255`| 170 IPs lliures a la Sala Blanca 4 |
 
 > [!NOTE]
-> **Conclusió de la validació:** Totes les màscares `/24` i `/30` respecten de manera estricta els límits binaris naturals del tercer i quart octet. No existeix cap solapament de rangs i cada equip compta amb una passarel·la unívoca assignada a la seua respectiva interfície VLAN del switch *Core* L3 o del clúster de tallafocs.
+> **Conclusió de la validació:** L'esquema `192.168.[VLAN].X/24` garanteix un disseny sense solapaments, unívoc i fàcilment comprensible, on cada VLAN disposa de la seua pròpia passarel·la al `.1`.

diff --git a/docs/sprint-1/bloc-2/03-disseny-xarxa.md b/docs/sprint-1/bloc-2/03-disseny-xarxa.md
@@ -17,35 +17,35 @@ L'arquitectura es basa en un model jeràrquic de Nucli col·lapsat (Core/Distrib
 ```mermaid
 graph TD
     %% Connexions Externes
-    ISP((Proveïdors Internet\nISPs redundants)) === R1[Router Vora 1]
-    ISP === R2[Router Vora 2]
+    ISP((Proveïdors Internet\nISPs redundants)) === R1[router-1\nRouter Vora 1]
+    ISP === R2[router-2\nRouter Vora 2]
     
     %% Seguretat Perimetral
-    R1 === FW1[Firewall Perimetral 1\nActiu]
-    R2 === FW2[Firewall Perimetral 2\nPassiu]
+    R1 === FW1[firewall-1\nTallafocs Actiu]
+    R2 === FW2[firewall-2\nTallafocs Passiu]
     
     %% Nucli de Xarxa (Core)
-    FW1 === C1((Switch Core 1\nL3 - 10G/40G))
-    FW2 === C2((Switch Core 2\nL3 - 10G/40G))
+    FW1 === C1((switch-core-1\nSwitch Nucli 1))
+    FW2 === C2((switch-core-2\nSwitch Nucli 2))
     C1 ~~~ C2
     
     %% DMZ
-    C1 === SW_DMZ[Zona DMZ Aïllada\nVLAN 20]
+    C1 === SW_DMZ[Zona DMZ Aïllada\nVLAN 20 · 192.168.20.0/24]
     C2 === SW_DMZ
-    SW_DMZ --- SRV_WEB[Portal Web / ERP Clients]
-    SW_DMZ --- SRV_MAIL[Relay Correu Extern]
-    SW_DMZ --- SRV_DNS[DNS Públic]
+    SW_DMZ --- SRV_WEB[srv-web\nPortal Web / ERP]
+    SW_DMZ --- SRV_MAIL[srv-correu\nRelay Correu Extern]
+    SW_DMZ --- SRV_DNS[srv-dns-public\nDNS Públic]
     
     %% Xarxa Oficina
-    C1 === SW_OFI[Switch PoE Oficina]
+    C1 === SW_OFI[switch-oficina-1 / 2\nSwitches PoE Oficina]
     C2 === SW_OFI
-    SW_OFI -.- PC[Ordinadors i Portàtils\nAdministració i SOC]
-    SW_OFI -.- AP[Punts d'Accés Wi-Fi]
+    SW_OFI -.- PC[pc-direccio .. pc-soc\n13 PCs Usuaris]
+    SW_OFI -.- AP[ap-wifi & Portàtils\nWi-Fi Corp i Visites]
     
     %% Accés Sales Blanques (Top-of-Rack)
-    C1 === SW_TOR[32 Switches Top-of-Rack\nSales Blanques 1 a 4]
+    C1 === SW_TOR[32 Switches ToR\nswitch-tor-p2..p5]
     C2 === SW_TOR
-    SW_TOR --- SRV_PROD[320 Servidors Físics\nHalf/Full-Server B2B]
+    SW_TOR --- SRV_PROD[320 Servidors Clients\nsrv-client-p2..p5]
     
     classDef firewall fill:#e53935,stroke:#b71c1c,stroke-width:2px,color:#fff;
     classDef core fill:#1e88e5,stroke:#0d47a1,stroke-width:2px,color:#fff;

diff --git a/docs/sprint-1/bloc-2/07-planificacio.md b/docs/sprint-1/bloc-2/07-planificacio.md
@@ -93,7 +93,7 @@ S'ha dissenyat un tauler Kanban a Trello dividit en cinc llistes operatives per 
 | **[T1.1] Anàlisi de necessitats TIC** | ✅ Finalitzat | Joan Mengual | 4 h | Revisar rols de la plantilla i elaborar la taula de necessitats amb fonts consultades (`01-necessitats.md`). |
 | **[T1.2] Estudi d'alternatives i viabilitat** | ✅ Finalitzat | Àlex Calabuig | 6 h | Comparar Alternativa A vs B, plantejar el monitoratge predictiu IoT i validar la viabilitat 4D (`02-alternatives-viabilitat.md`). |
 | **[T1.3] Topologia lògica i DMZ** | ✅ Finalitzat | Joan Mengual | 6 h | Dibuixar l'esquema de xarxa en Mermaid, definir els components de la DMZ i justificar la seguretat (`03-disseny-xarxa.md`). |
-| **[T1.4] Pla d'adreçament IP i VLANs** | ✅ Finalitzat | Àlex Calabuig | 8 h | Segmentar l'espai `10.20.0.0/16`, taula d'equips, nomenclatura FQDN i verificació d'absència de solapaments (`04-adrecament-ip.md`). |
+| **[T1.4] Pla d'adreçament IP i VLANs** | ✅ Finalitzat | Àlex Calabuig | 8 h | Segmentar l'espai `192.168.0.0/16`, taula d'equips, nomenclatura directa i verificació d'absència de solapaments (`04-adrecament-ip.md`). |
 | **[T1.5] Selecció de maquinari, SO i equip** | ✅ Finalitzat | Joan Mengual | 5 h | Dimensionar servidors, xarxa, PCs, llicències i definir l'equip d'implantació (`05-recursos.md`). |
 | **[T1.6] Pressupost econòmic detallat** | ✅ Finalitzat | Joan Mengual | 6 h | Recopilar preus reals (FS.com, Dell), calcular subtotals, IVA (21%) i justificar el ROI (`06-pressupost.md`). |
 | **[T1.7] Planificació Scrum i Trello** | ✅ Finalitzat | Àlex Calabuig | 5 h | Definir parts del projecte, rols Scrum, estructuració de targetes i captura del tauler (`07-planificacio.md`). |
